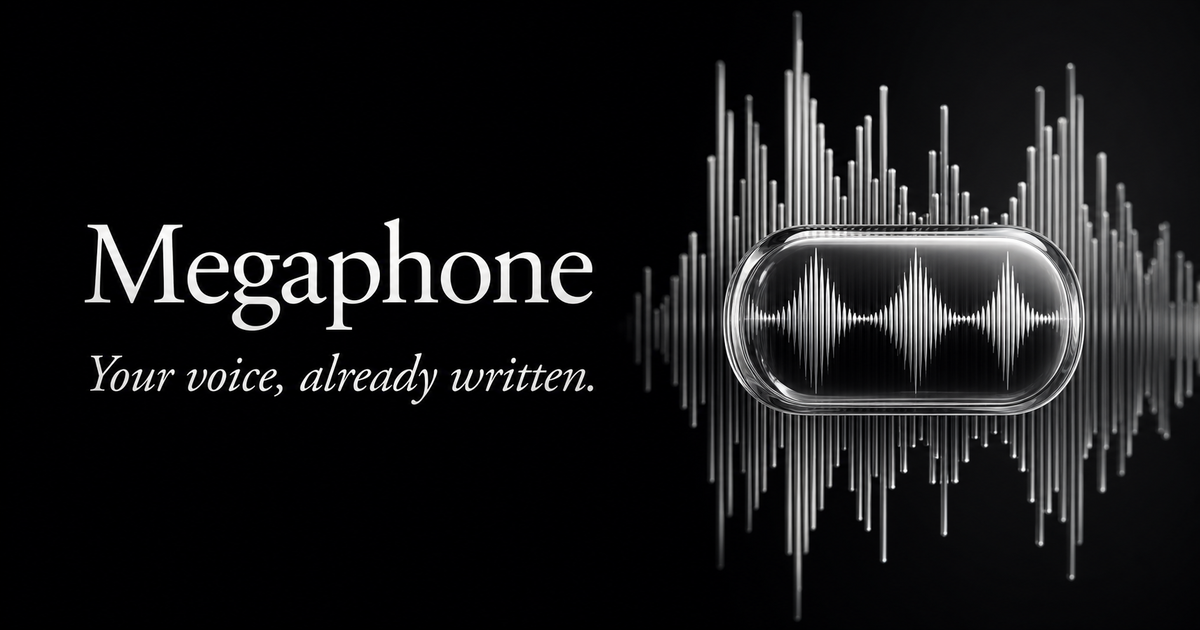
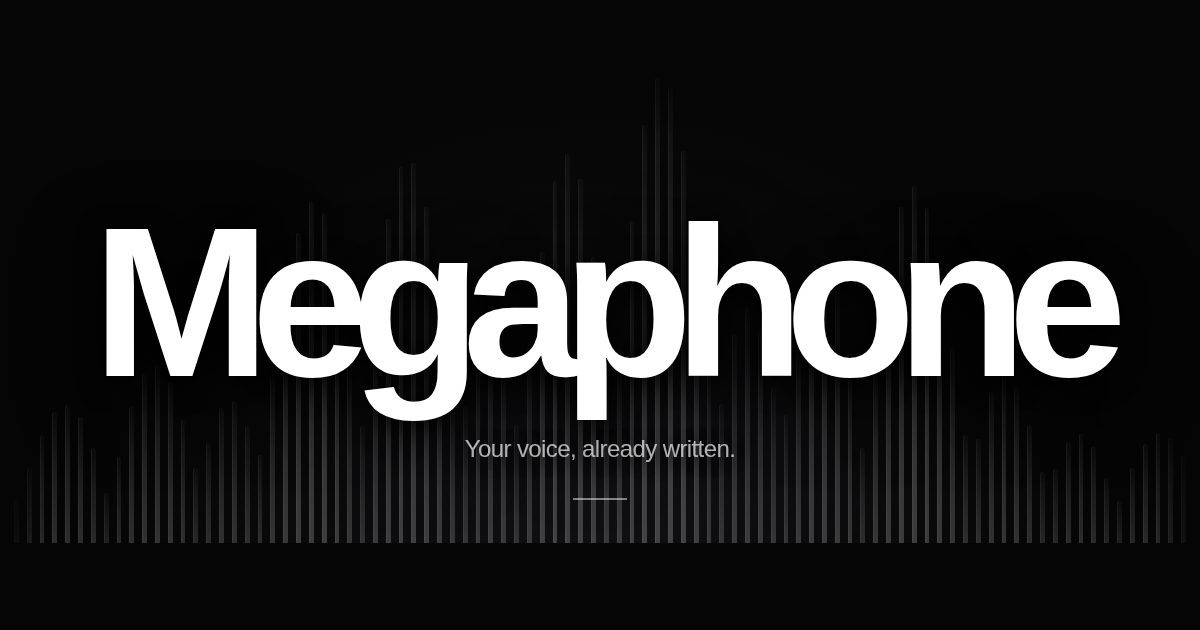
fix: match social preview to website footer

Changed region(s): [[0.0308, 0.0302, 1.0, 0.9651]]

diff --git a/website/assets/og-source.html b/website/assets/og-source.html
@@ -1,0 +1,24 @@
+<!doctype html>
+<html lang="en">
+<head>
+  <meta charset="utf-8">
+  <meta name="viewport" content="width=1200,initial-scale=1">
+  <title>Megaphone social preview</title>
+  <style>
+    *{box-sizing:border-box}html,body{width:1200px;height:630px;margin:0;overflow:hidden;background:#050505;color:#fff;font-family:-apple-system,BlinkMacSystemFont,"SF Pro Display","Helvetica Neue",sans-serif}
+    .frame{position:relative;width:100%;height:100%;overflow:hidden;background:radial-gradient(ellipse at 50% 90%,#111114 0,#050505 62%)}
+    .waves{position:absolute;inset:26px 0 0;display:flex;align-items:flex-end;gap:8px;padding:0 14px;mask-image:linear-gradient(to right,transparent,#000 4%,#000 96%,transparent)}
+    .waves i{flex:1;height:var(--h);border-radius:999px 999px 0 0;background:linear-gradient(to top,rgba(255,255,255,.28),rgba(255,255,255,.025));box-shadow:inset 1px 0 rgba(255,255,255,.06)}
+    .veil{position:absolute;inset:0;background:linear-gradient(to bottom,#050505 0,transparent 22%,transparent 75%,rgba(5,5,5,.2));pointer-events:none}
+    .word{position:absolute;z-index:2;left:50%;top:48%;transform:translate(-50%,-50%);white-space:nowrap;font-size:214px;line-height:.8;font-weight:760;letter-spacing:-.09em;text-shadow:0 6px 28px #000,0 25px 80px rgba(0,0,0,.72)}
+    .tagline{position:absolute;z-index:2;left:50%;top:69%;transform:translateX(-50%);font-size:24px;font-weight:520;letter-spacing:-.025em;color:rgba(255,255,255,.68);text-shadow:0 3px 18px #000}
+    .rule{position:absolute;z-index:2;left:50%;top:79%;width:54px;height:2px;transform:translateX(-50%);background:rgba(255,255,255,.48)}
+  </style>
+</head>
+<body>
+  <main class="frame"><div class="waves" id="waves" aria-hidden="true"></div><div class="veil"></div><div class="word">Megaphone</div><div class="tagline">Your voice, already written.</div><div class="rule"></div></main>
+  <script>
+    const root=document.querySelector('#waves');for(let n=0;n<92;n++){const bar=document.createElement('i'),x=n/91,envelope=.2+.8*Math.sin(Math.PI*x),signal=.24+.76*Math.abs(Math.sin(n*.47)+.55*Math.sin(n*.18+1.4))/1.55;bar.style.setProperty('--h',`${80+500*envelope*signal}px`);root.append(bar)}
+  </script>
+</body>
+</html>